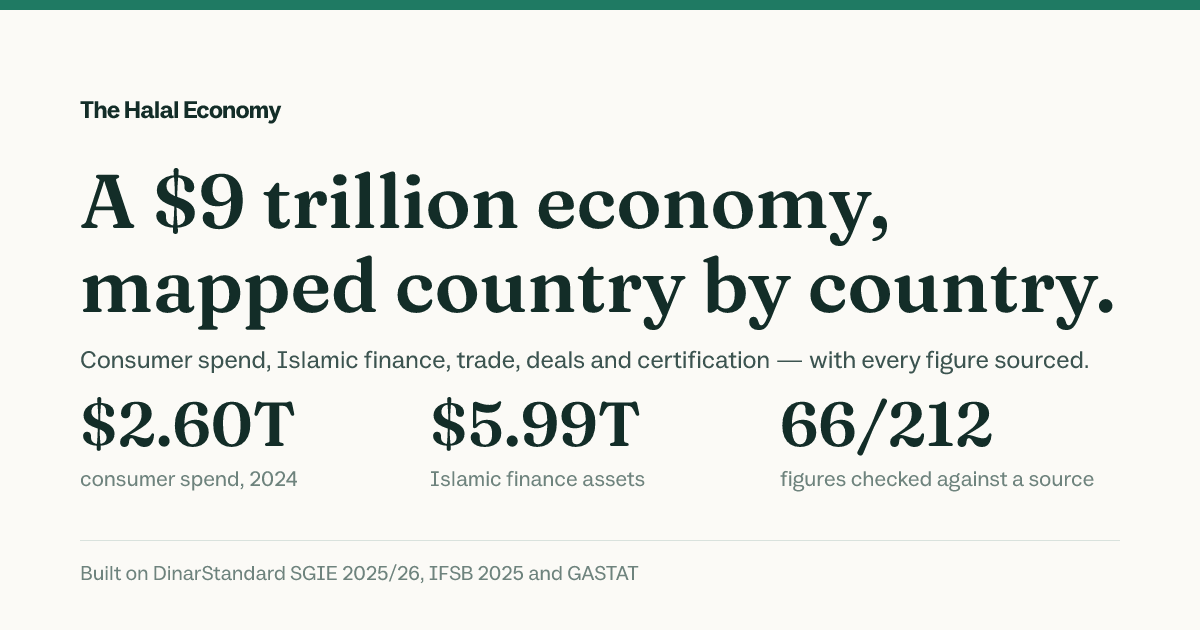
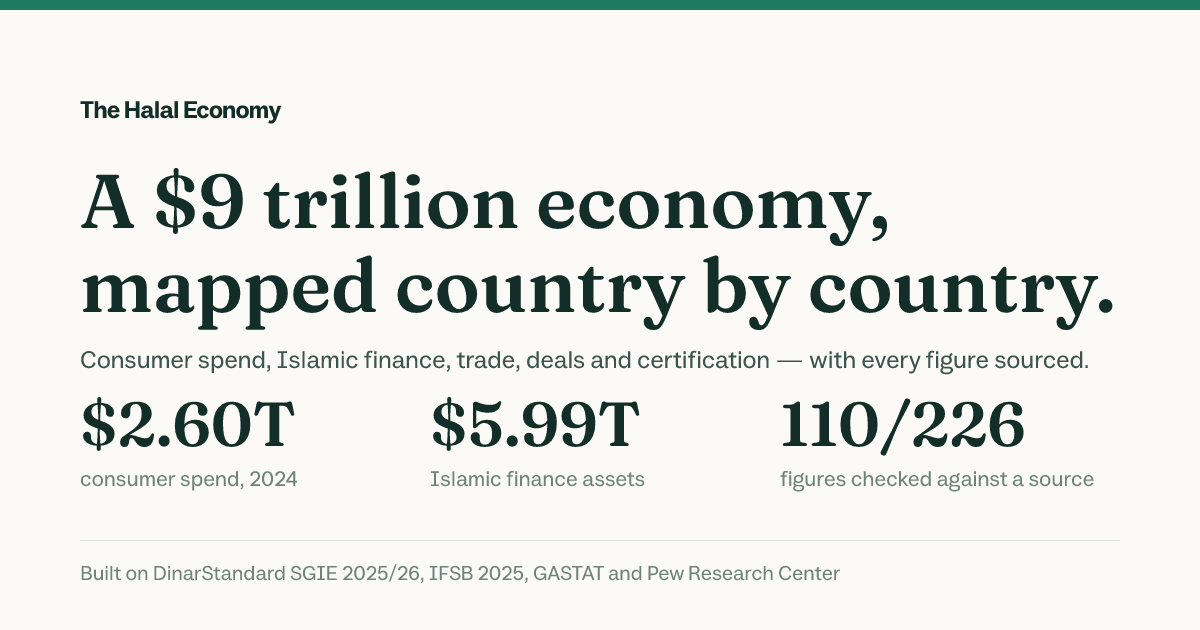
Refresh the share image, and say where Mizan's questions go
- assets/og-image.png now shows 110/226 figures checked (it still said
  66/212), and its credit line adds Pew Research Center, the source of 38
  of the confirmed figures. Rendered with the same Fraunces and Scoutie Sans
  instances, so nothing else in the card moves.
- Mizan's panel says, before anyone asks anything, that questions are sent
  to Groq (linking its privacy policy) to write the answers, aren't stored
  by this site, and shouldn't include personal details. The function logs
  no questions: its only log line is Groq's status code on a failed call.

Claude-Session: https://claude.ai/code/session_01JqVJ7LtXiJmdVdiLmFD1L5

Changed region(s): [[0.6475, 0.6333, 0.8633, 0.7238], [0.4317, 0.8746, 0.7092, 0.9349]]

diff --git a/index.html b/index.html
@@ -867,7 +867,7 @@
     </div>
     <button class="mini" id="askClose" aria-label="Close Mizan">Close</button>
   </div>
-  <p class="ask-note">Mizan is an AI agent. It looks up the figures on this page, cites each one, and marks whether it has been checked against its source. It can make mistakes, so check the badges. Not investment advice.</p>
+  <p class="ask-note">Mizan is an AI agent. It looks up the figures on this page, cites each one, and marks whether it has been checked against its source. It can make mistakes, so check the badges. Not investment advice. <span class="ask-privacy">Your questions are sent to <a href="https://groq.com/privacy-policy/" target="_blank" rel="noopener noreferrer">Groq</a>, an AI provider, to write the answers, and aren't stored by this site. Please don't include personal details.</span></p>
   <div class="ask-log" id="askLog" aria-live="polite"></div>
   <div class="ask-suggest" id="askSuggest"></div>
   <form class="ask-form" id="askForm">
